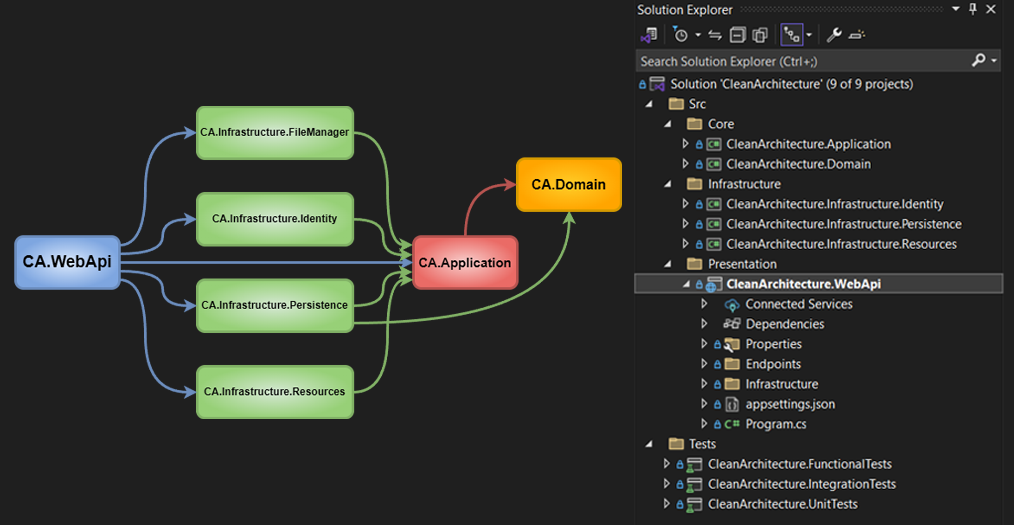
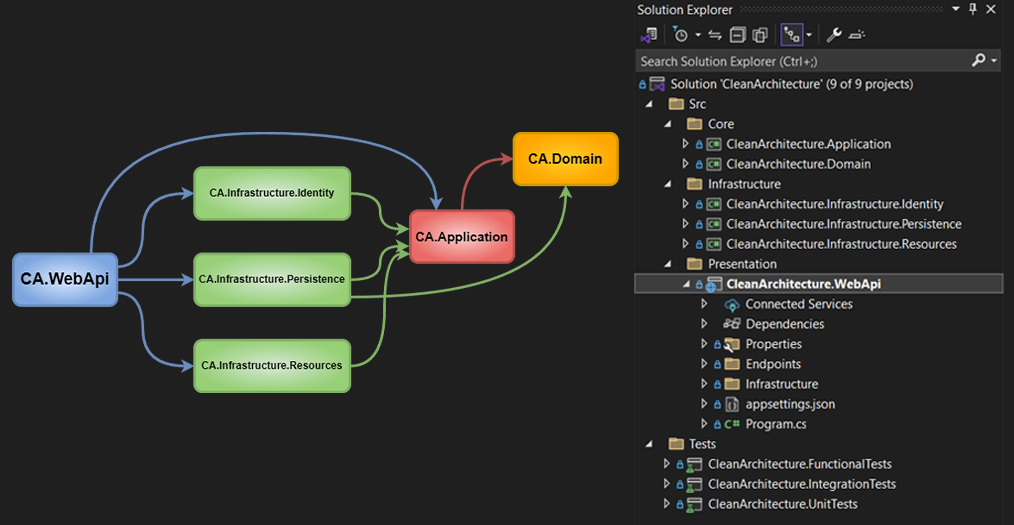
5 files modified and 1 file deleted
Modified : ../Deploy/docker-compose.yml
Modified : ../Documents/ConfigureDatabase.md
Modified : ../Documents/EasyAddMigrationTools.md
Modified : ../Documents/Images/ProjectCreated.png
Deleted : ../Templates/ca-tools/Tools/AddMigration.FileManager.bat
Modified : ../Templates/ca-tools/Tools/ConfigureDatabase.bat

Changed region(s): [[0.0, 0.1829, 0.6114, 0.8229]]

diff --git a/Documents/EasyAddMigrationTools.md b/Documents/EasyAddMigrationTools.md
@@ -9,7 +9,6 @@ To address this challenge and establish an efficient and automated process for m
 In this article, we'll introduce and demonstrate the usage of these useful tools for creating migrations in three different sections of a .NET project:
 
 - AddMigration.Identity.bat : For creating migrations related to the Identity section of the project.
-- AddMigration.FileManager.bat : For creating migrations related to the FileManager section of the project.
 - AddMigration.Persistence.bat : For creating migrations related to the Persistence section (e.g., creating tables and relationships in the main database) of the project.
 
 

diff --git a/Documents/ConfigureDatabase.md b/Documents/ConfigureDatabase.md
@@ -49,7 +49,7 @@ After running the command, navigate to the Tools folder:
     ```
     And
     ```plaintext
-    Enter the name of the ClassLibrary you want to configure (Identity, Persistence, FileManager):
+    Enter the name of the ClassLibrary you want to configure (Identity, Persistence):
     ```
 
 4. Final Steps
